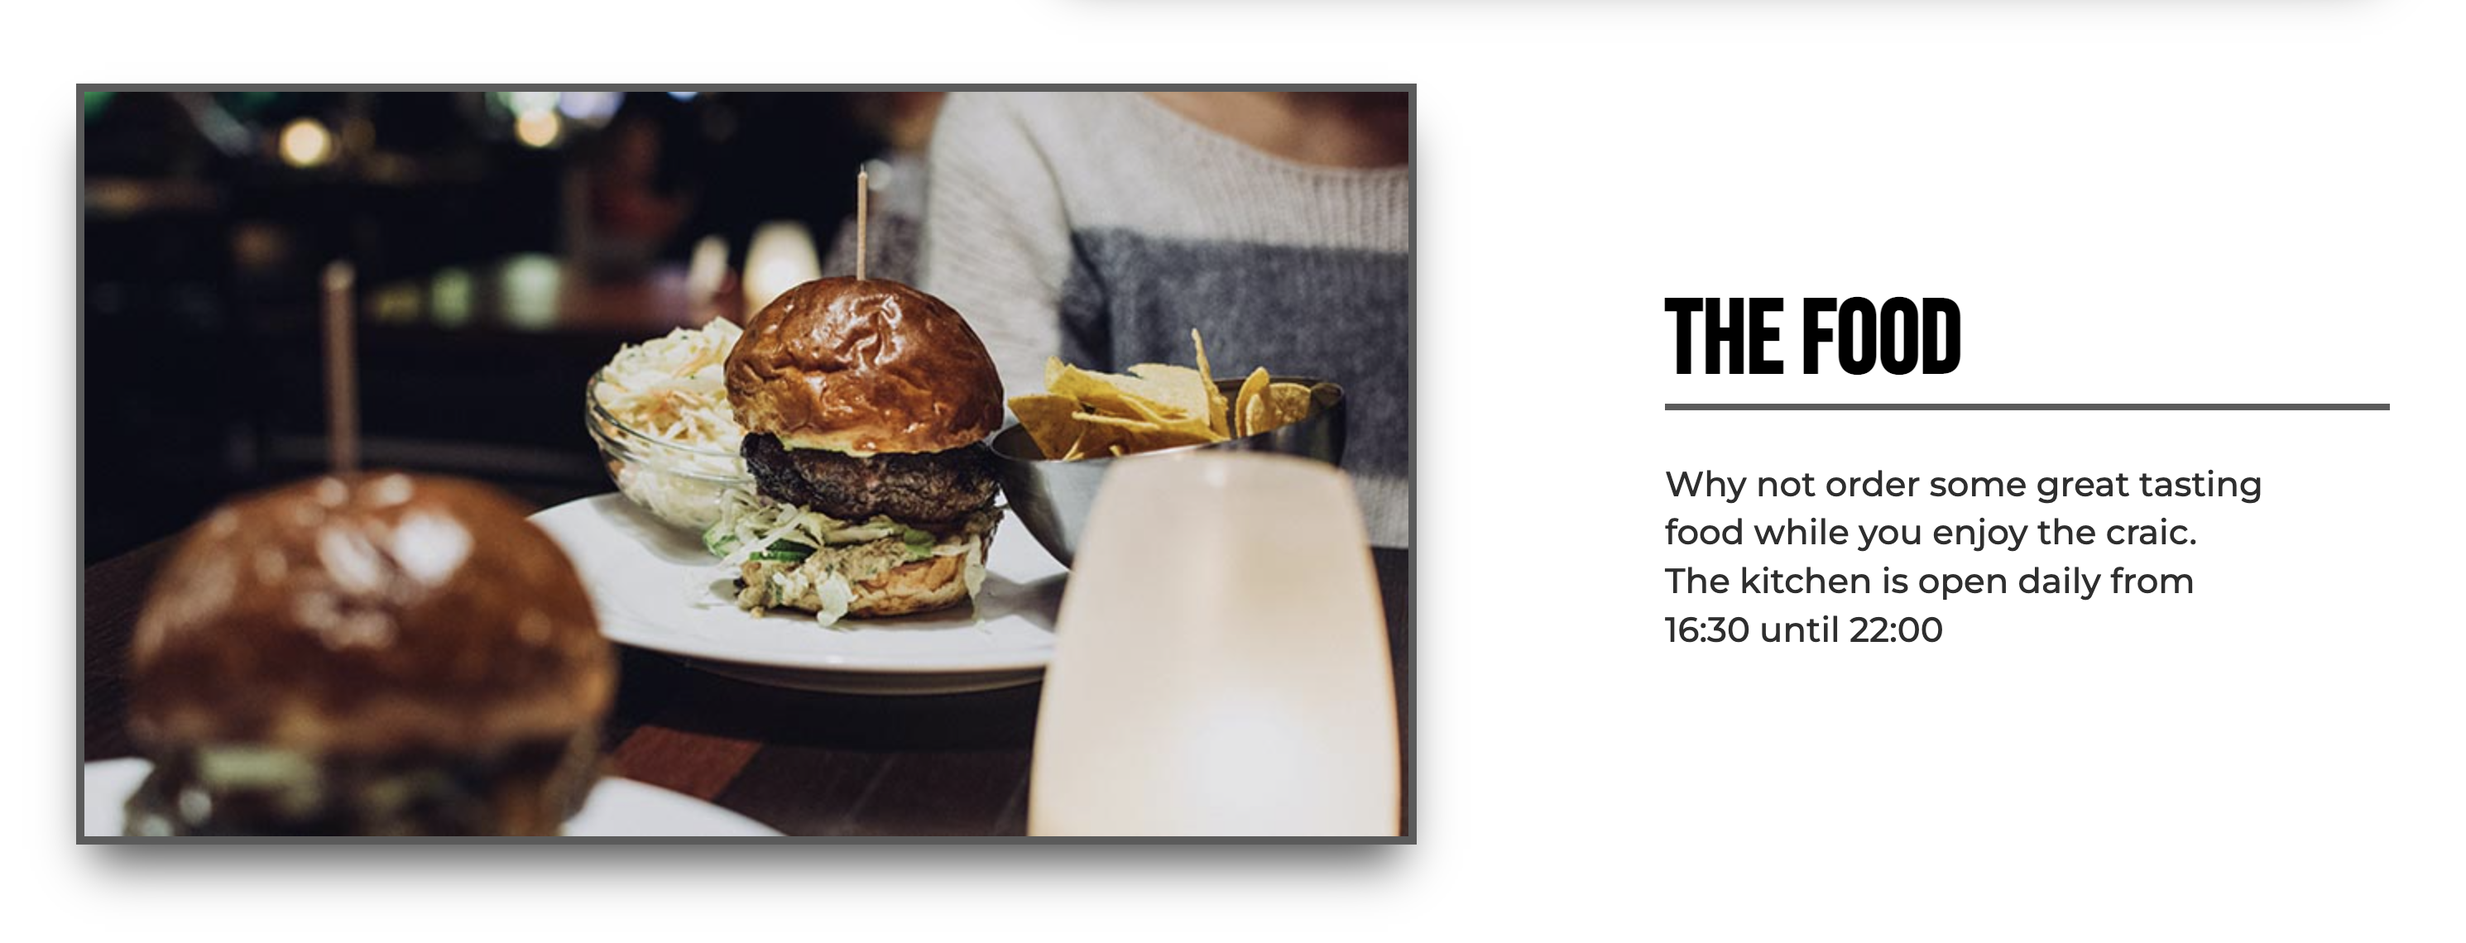
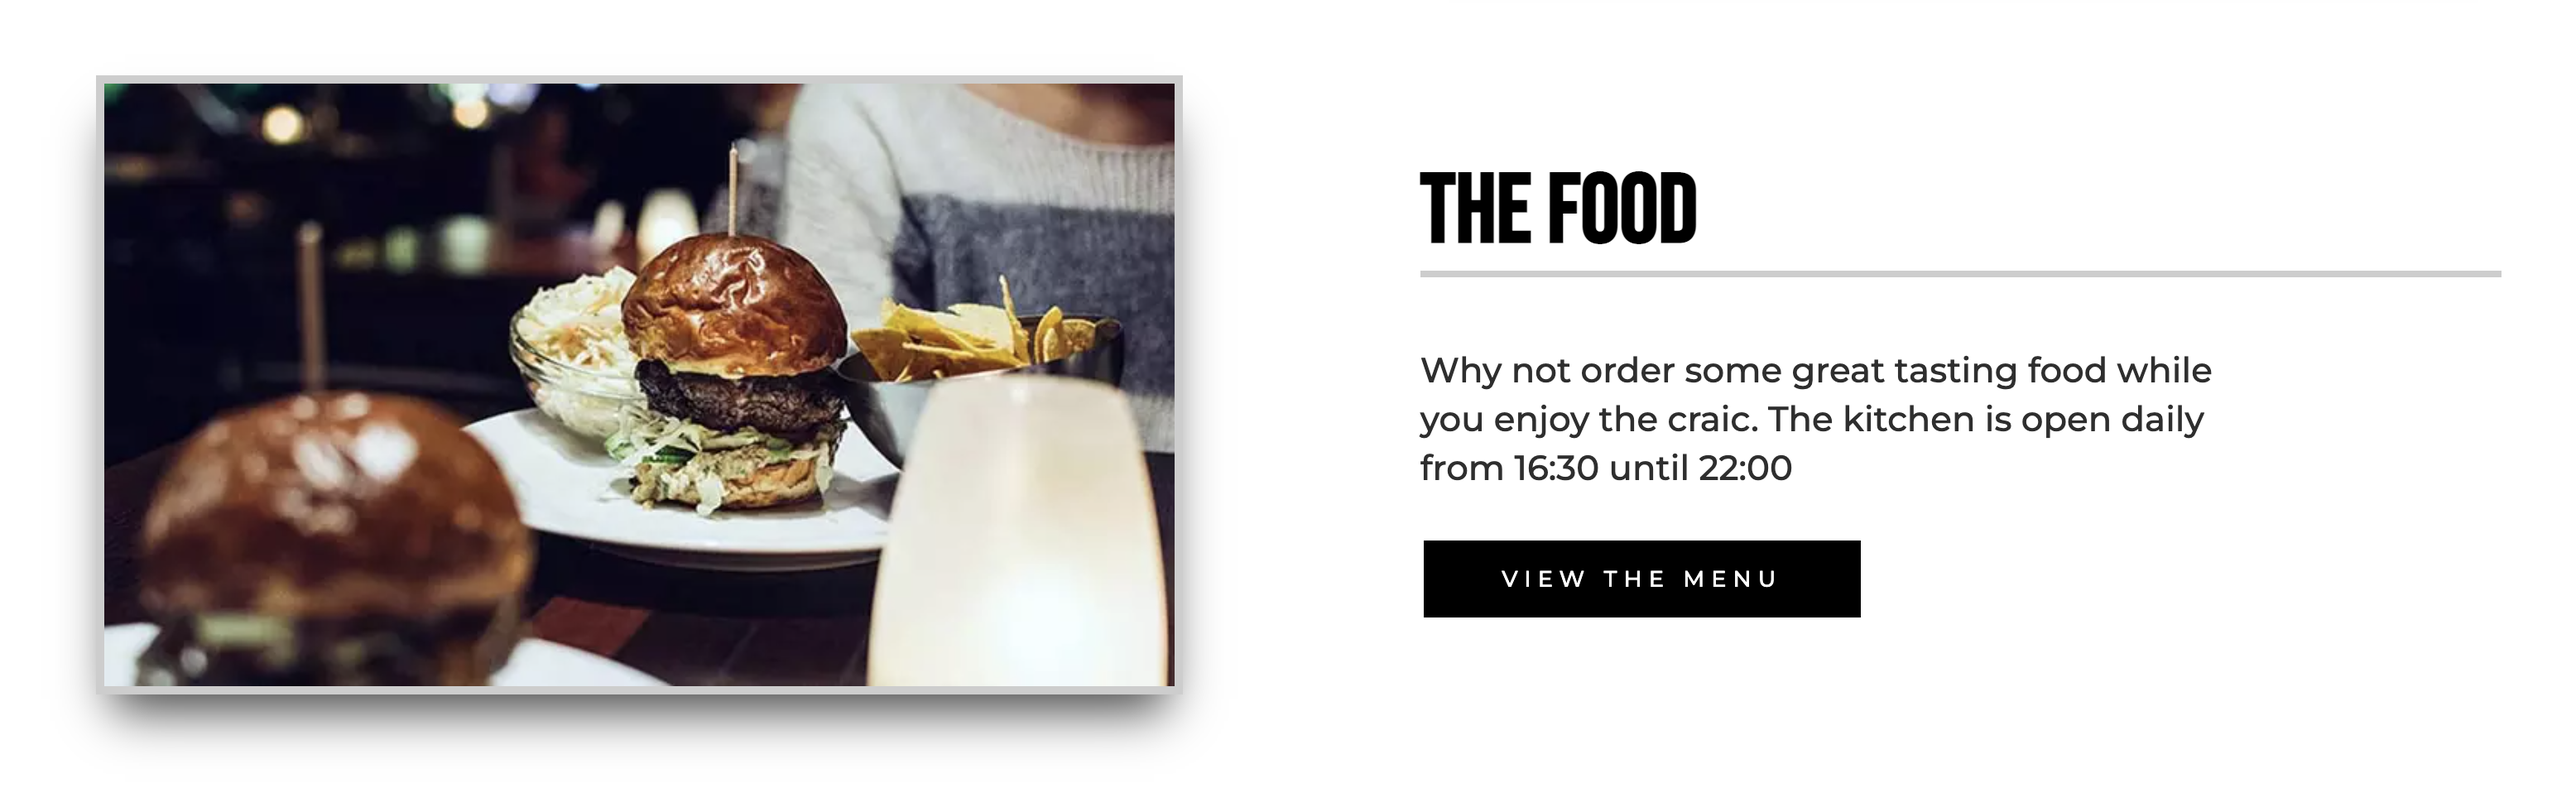
docs: update README

diff --git a/README.md b/README.md
@@ -25,13 +25,13 @@ You will see a selection of Irish beer & food on the site and be able to submit 
 
 + **The Pub Section**
 
-  + This section introduces the user to details regarding the pub 
+  + This section introduces the user to details regarding the pub and a button to view the beer menu
   
-![alt text](docs/images/screenshots/pub-section-screenshot.png "Screenshot of the pub section")
+![alt text](docs/screenshots/pub-section-screenshot.png "Screenshot of the pub section")
 
 + **The Food Section**
 
-  + This section introduces the user to details regarding the food on offer
+  + This section introduces the user to details regarding the food on offer and a button to view the food menu
   
 ![alt text](docs/screenshots/food-section-screenshot.png "Screenshot of the food section")
 
@@ -43,8 +43,7 @@ You will see a selection of Irish beer & food on the site and be able to submit 
 
 + **The Footer**
 
-  + This section has a menu for site navigation.
-  + The section also includes a Facebook social link that will open up in a new tab for easy navigation.
+  + The section also includes a Facebook & Twitter social link that will open up in a new tab for easy navigation.
   
 ![alt text](docs/screenshots/footer-screenshot.png "Screenshot of the footer section")
 
@@ -52,7 +51,7 @@ You will see a selection of Irish beer & food on the site and be able to submit 
 
   + This section introduces the user to the beer menu available
   
-  + This section includes a form to make a table booking which redirects to a succes page once the requested info has been submitted. 
+  + This section includes a button to book a table
 
 ![alt text](docs/screenshots/beer-page-screenshot.png "Screenshot of the beer page")
 
@@ -60,7 +59,7 @@ You will see a selection of Irish beer & food on the site and be able to submit 
 
   + This section introduces the user to the food menu available
   
-  + This section includes a form to make a table booking which redirects to a succes page once the requested info has been submitted. 
+  + This section includes a button to book a table 
 
 ![alt text](docs/screenshots/food-page-screenshot.png "Screenshot of the food page")
 
@@ -108,6 +107,8 @@ ___
 
 + HTML
 + CSS
++ Gitpod
++ Github
 ___
 
 # Testing
@@ -118,7 +119,7 @@ ___
 ![alt text](docs/screenshots/lighthouse-screenshot.png "Screen shot of the Lighthouse results")
 
 + Responsive design
-  + The site has been tested on all screen sizes and is responsive
+  + The site has been tested on Iphone12, Ipad and desktop and is responsive
 ___
 # Validator Testing
 
@@ -136,8 +137,10 @@ ___
   ___
 # Deployment
 
-+ The site was developed in Gitpod. 
-+ The site was deployed to GitHub pages. 
++ The site was deployed to GitHub pages. The steps to deploy are as follows:
+  + In the GitHub repository, navigate to the Settings tab
+  + From the source section drop-down menu, select the Master Branch
+  + Once the master branch has been selected, the page will be automatically refreshed with a detailed ribbon display to indicate the successful deployment.
 
 The live link can be found here - <https://artcuddy.github.io/Project1-olearys/index.html>
 
